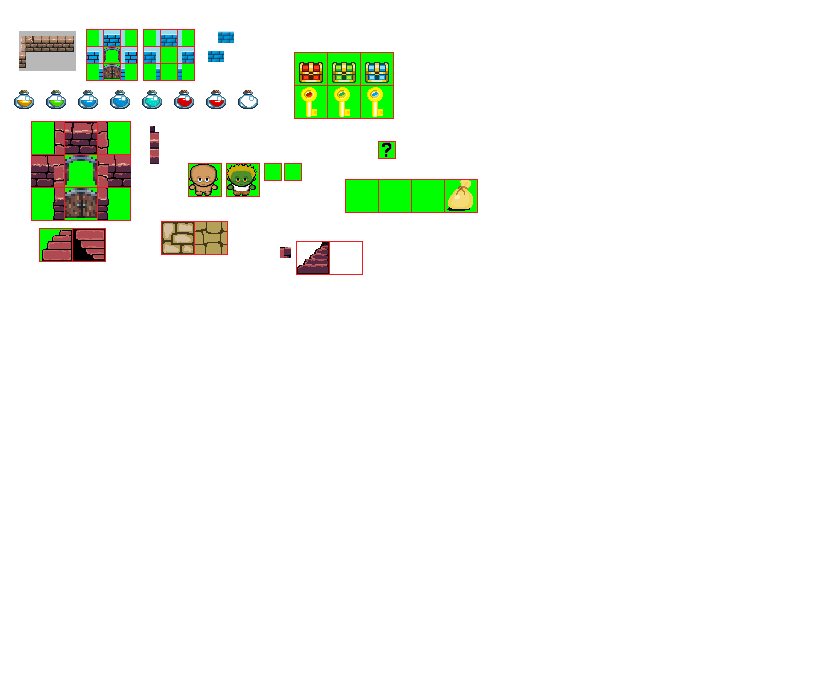
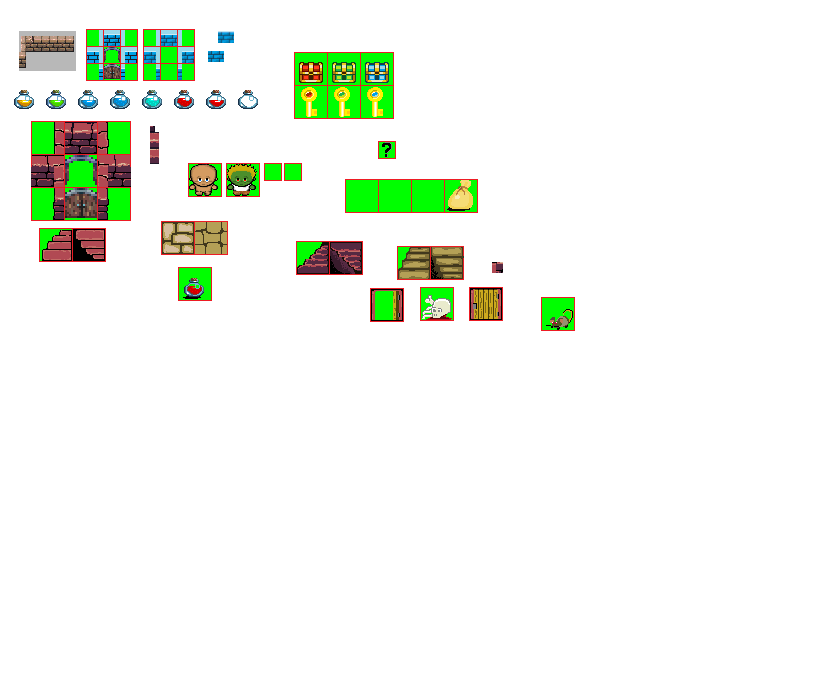
tiles

Changed region(s): [[0.3358, 0.3382, 0.7021, 0.4919], [0.2137, 0.369, 0.2747, 0.4612]]

diff --git a/rogue-js/src/components/tiles-render/texture-mapping.js b/rogue-js/src/components/tiles-render/texture-mapping.js
@@ -1,5 +1,6 @@
 import { WALL_CODES } from "../../game/commons/dungeon-tiles";
 import { TYPE_OBJECT, CHEST_KIND } from "../../game/objects";
+import { TYPE_ENNEMIES } from "../../game/ennemies/commons/type-ennemies";
 
 export function getWallsText(code) {
   const base = { width: 32, height: 32 };
@@ -31,8 +32,14 @@ export function getPlayerTex() {
   return { x: 49, y: 1, width: 32, height: 32 };
 }
 
-export function getEnemyTex() {
-  return { x: 82, y: 1, width: 32, height: 32 };
+export function getEnemyTex(enemy) {
+  const { type } = enemy;
+  switch (type) {
+    case TYPE_ENNEMIES.rat:
+      return { x: 113, y: 1, width: 32, height: 32 };
+    default:
+      return { x: 82, y: 1, width: 32, height: 32 };
+  }
 }
 
 export function getIronSightTex() {
@@ -40,6 +47,10 @@ export function getIronSightTex() {
 }
 
 /** */
+
+export function getPotionTex() {
+  return { x: 113, y: 131, width: 32, height: 32 };
+}
 
 function getChest(chest) {
   const { kind } = chest;
@@ -86,7 +97,15 @@ export function getStairsTex(stairs) {
 }
 
 export function getSimpleTex(simple) {
-  return { x: 212, y: 65, width: 32, height: 32 };
+  const { code } = simple;
+  switch (code) {
+    default:
+      return { x: 212, y: 65, width: 32, height: 32 };
+  }
+}
+
+export function getCorpseTex() {
+  return { x: 212, y: 98, width: 32, height: 32 };
 }
 
 export function getObjectTex(object) {
@@ -103,6 +122,10 @@ export function getObjectTex(object) {
       return getStairsTex(object);
     case TYPE_OBJECT.simple:
       return getSimpleTex(object);
+    case TYPE_OBJECT.corpse:
+      return getCorpseTex();
+    case TYPE_OBJECT.potion:
+      return getPotionTex();
     default:
       return { x: 66, y: 34, width: 16, height: 16 };
   }

diff --git a/rogue-js/src/components/tiles-render/fill-ennemies.js b/rogue-js/src/components/tiles-render/fill-ennemies.js
@@ -10,7 +10,7 @@ function fill(state, offscreen, texture, rect, size = 8) {
   ennemiesLevel.forEach(function (enemy) {
     const { position, type } = enemy;
 
-    const tex = getEnemyTex(type);
+    const tex = getEnemyTex(enemy);
     const xi = (position % dungeonWidth) - rect.x;
     const yi = Math.trunc(position / dungeonWidth) - rect.y;
     if (isVisibleForPlayer(player, position)) {

diff --git a/rogue-js/src/game/player/create-player.js b/rogue-js/src/game/player/create-player.js
@@ -4,7 +4,7 @@ import { popOne } from "../commons";
 import { createStats, computeNextLevelXp, computeMaxLife } from "../fight";
 
 const DEFAULT_FOV = 8;
-const DEFAULT_NB_MOVE = 2000;
+const DEFAULT_NB_MOVE = 2;
 
 function createBasePlayer(
   dungeon,
